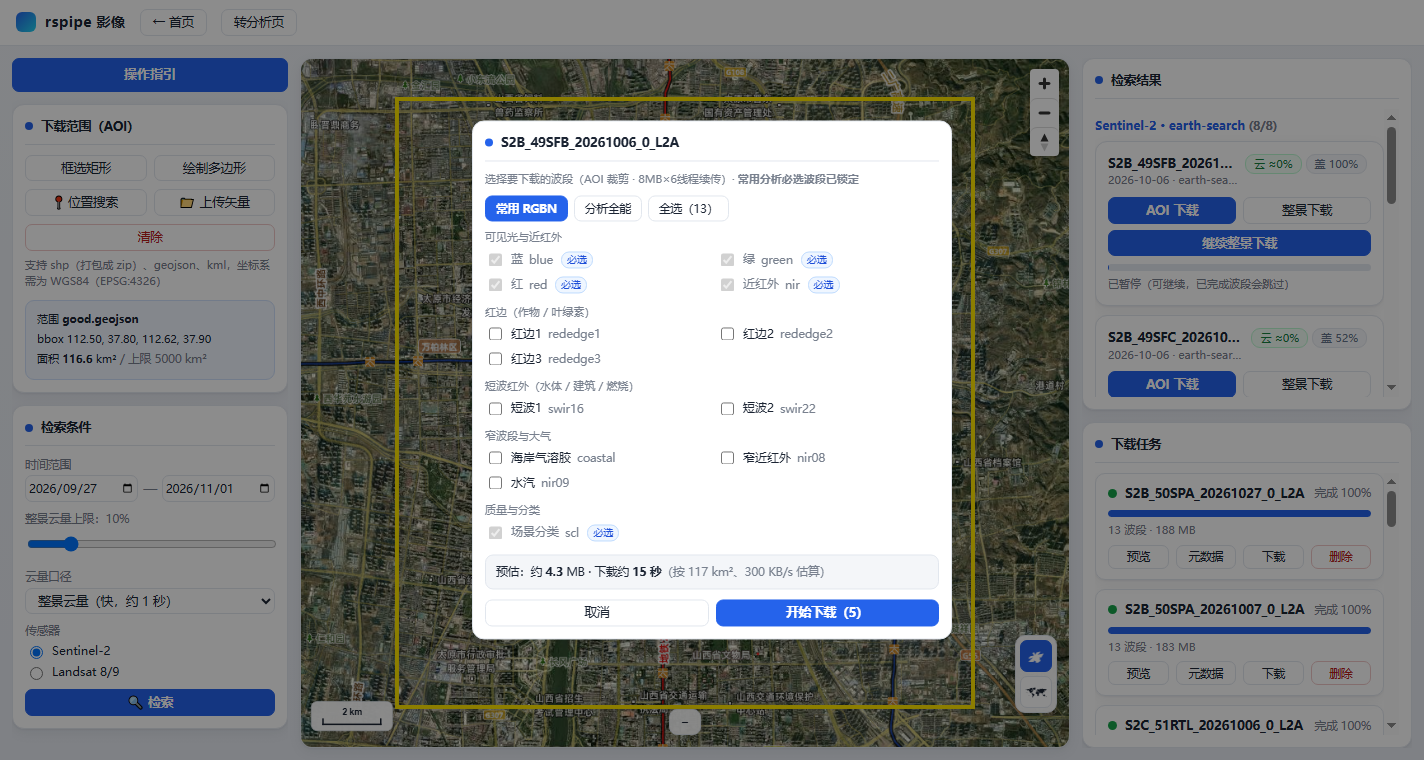
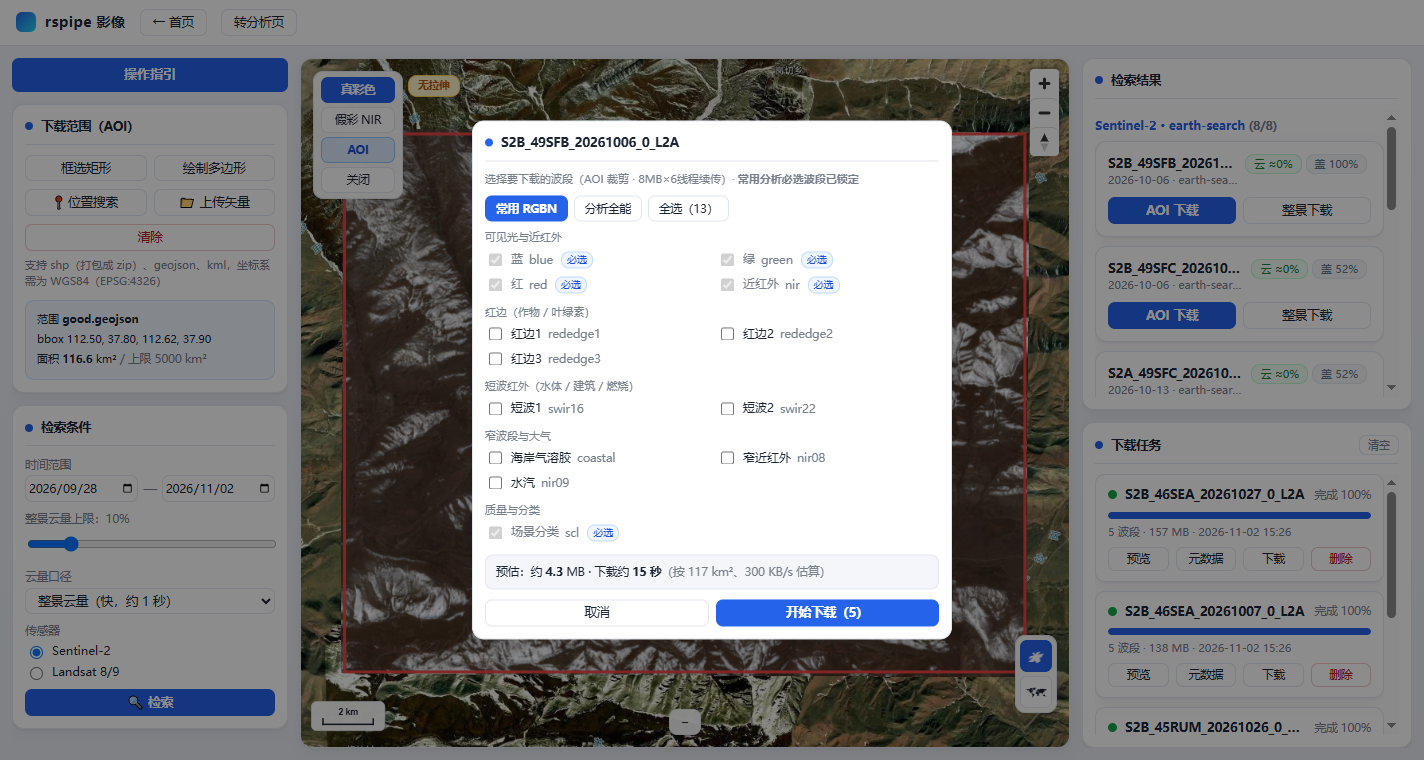
docs(ui): 分析指南补每个指数的意义；点击操作指引也自动播放；截图更新
- 15 个指数 + 两期变化都增加「意义」说明（用途/判读场景）
- 手动点击「操作指引」同样按 3 秒/步自动播放
- 首页文案去掉 NDVI 预览（已下线）
- 重新截取 7 张界面图（含拉伸浮标、按钮配色、指南意义）

diff --git a/web/src/components/GuideModal.vue b/web/src/components/GuideModal.vue
@@ -36,6 +36,7 @@
             </div>
             <div class="f">{{ t.formula }}</div>
             <dl>
+              <dt>意义</dt><dd>{{ t.meaning }}</dd>
               <dt>所需栅格</dt><dd>{{ t.bands }}</dd>
               <dt>参数</dt><dd>{{ t.param }}</dd>
               <dt>结果</dt><dd>{{ t.result }}</dd>
@@ -55,6 +56,7 @@
               </div>
               <div class="f">{{ t.formula }}</div>
               <dl>
+                <dt>意义</dt><dd>{{ t.meaning }}</dd>
                 <dt>所需栅格</dt><dd>{{ t.bands }}</dd>
                 <dt>参数</dt><dd>{{ t.param }}</dd>
                 <dt>结果</dt><dd>{{ t.result }}</dd>
@@ -77,6 +79,7 @@ const GENERAL = [
   {
     name: '两期变化', cn: '变化检测',
     formula: 'Δ = 指数(后期) - 指数(前期)',
+    meaning: '对比同一地区两个日期，判断植被长势、水体、建成区或火烧迹地的变化方向与面积，用于动态监测与成效评估。',
     bands: '两景同一指数（系统自动补算缺失的一期）',
     param: '变化阈值默认 0.1：|Δ| < 阈值视为无变化',
     result: '红=下降、白=无变化、绿=上升；统计平均变化、减少/增加/重叠面积；输出 {A}__{B}/{指数}_change.tif',
@@ -85,7 +88,7 @@ const GENERAL = [
 
 const INDEX_ORDER = ['植被', '水体与水质', '城市与裸土', '燃烧与灾害', '水分与干旱', '积雪与盐分']
 
-const TOOLS = [
+const TOOLS_RAW = [
   {
     name: 'NDVI', cn: '植被指数', group: '植被',
     formula: '(NIR - Red) / (NIR + Red)',
@@ -192,6 +195,25 @@ const TOOLS = [
     result: '盐渍化/干旱区土壤盐分相对高低；输出 {景}/si.tif',
   },
 ]
+
+const MEANING = {
+  NDVI: '反映植被覆盖度与生长活力，是区分植被/非植被、做长势分级最常用的指标。',
+  EVI: '在浓密植被下不易饱和，适合森林与旺盛期农田；对大气气溶胶有一定抑制。',
+  SAVI: '削弱土壤亮度影响，适合干旱区、稀疏植被与作物出苗早期的长势判断。',
+  NDRE: '红边波段对叶绿素更敏感，可比 NDVI 更早发现作物胁迫、缺氮与病虫害。',
+  NDWI: '突出地表水体，用于湖泊/河流范围提取与季节水位变化监测。',
+  MNDWI: '抑制建筑与阴影干扰，城市、山地水体提取更完整，是水体提取首选。',
+  AWEI: '在城区与山地阴影等复杂场景下自动提取水体，漏提和误提都更少。',
+  FAI: '识别水面藻类聚集区（水华），用于湖库富营养化与水质异常排查。',
+  NDBI: '识别建成区/不透水面，用于城市扩张、建设用地变化与违建排查。',
+  BSI: '反映裸土与扰动地表，适合施工、采矿、荒漠化与植被退化判读。',
+  NBR: '用于火烧迹地识别与过火严重度分级，配合两期差值（dNBR）效果最好。',
+  NBR2: '对燃烧残留和地表水分更敏感，辅助 NBR 区分火烧与其他扰动。',
+  NDMI: '反映植被冠层含水量，用于干旱胁迫、灌溉效果与旱情评估。',
+  NDSI: '提取积雪范围，用于雪线变化、融雪期与流域补给的监测。',
+  SI: '反映土壤盐分高低，用于干旱灌区次生盐渍化与盐碱地排查。',
+}
+const TOOLS = TOOLS_RAW.map((t) => ({ ...t, meaning: MEANING[t.name] || '' }))
 
 const INDEX_GROUPS = computed(() =>
   INDEX_ORDER.map((g) => ({ label: g, items: TOOLS.filter((t) => t.group === g) })).filter(

diff --git a/web/src/components/AnalysisPage.vue b/web/src/components/AnalysisPage.vue
@@ -11,7 +11,7 @@
     <div id="top">
       <!-- 左栏 -->
       <div id="left">
-        <button class="primary guide-btn" id="tour-guide" @click="tourOpen = true">操作指引</button>
+        <button class="primary guide-btn" id="tour-guide" @click="startTour">操作指引</button>
         <button class="primary guide-btn" id="tour-guide-modal" @click="guideOpen = true">分析指南</button>
 
         <div class="card" id="tour-setup">
@@ -654,6 +654,10 @@ function applyDefaultThreshold() {
 }
 watch(index, applyDefaultThreshold)
 watch(mode, applyDefaultThreshold)
+function startTour() {
+  tourAutoplay.value = true
+  tourOpen.value = true
+}
 function closeTour() {
   tourOpen.value = false
   tourAutoplay.value = false

diff --git a/web/src/components/HomePage.vue b/web/src/components/HomePage.vue
@@ -9,7 +9,7 @@
       <section class="card big" @click="$emit('go', 'download')">
         <div class="ico">🛰</div>
         <h2>下载遥感影像</h2>
-        <p>圈选范围或搜索地名，检索场景后选择波段下载；自动生成 4326 预览栅格与 AOI 记录，支持真彩 / 假彩 / NDVI 预览</p>
+        <p>圈选范围或搜索地名，检索场景后选择波段下载；自动生成 4326 预览栅格与 AOI 记录，支持真彩 / 假彩 NIR 预览与拉伸切换</p>
         <span class="go">进入 →</span>
       </section>
 

diff --git a/web/src/components/DownloadPage.vue b/web/src/components/DownloadPage.vue
@@ -200,7 +200,7 @@ const TOUR_STEPS = [
 ]
 
 function startTour() {
-  tourAutoplay.value = false
+  tourAutoplay.value = true
   tourOpen.value = true
 }
 function closeTour() {
